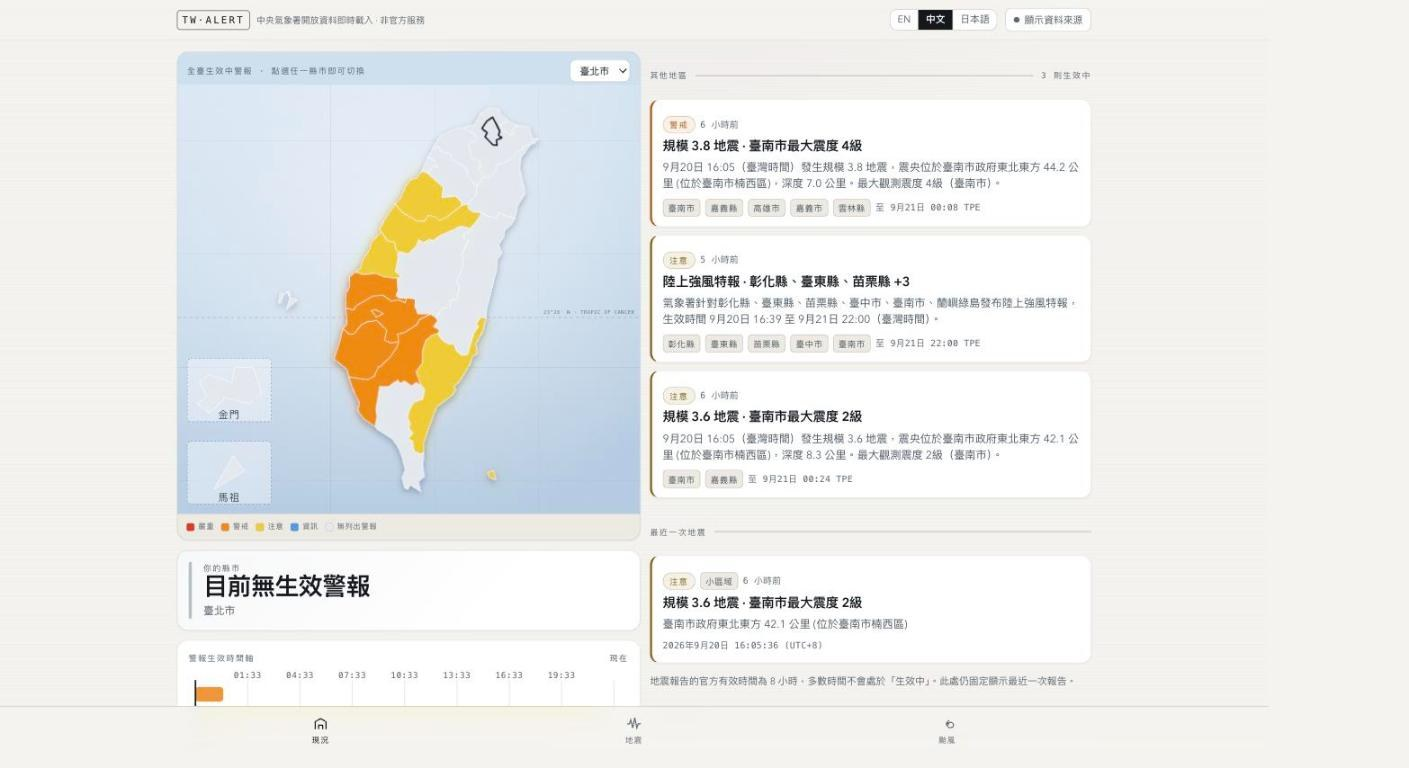
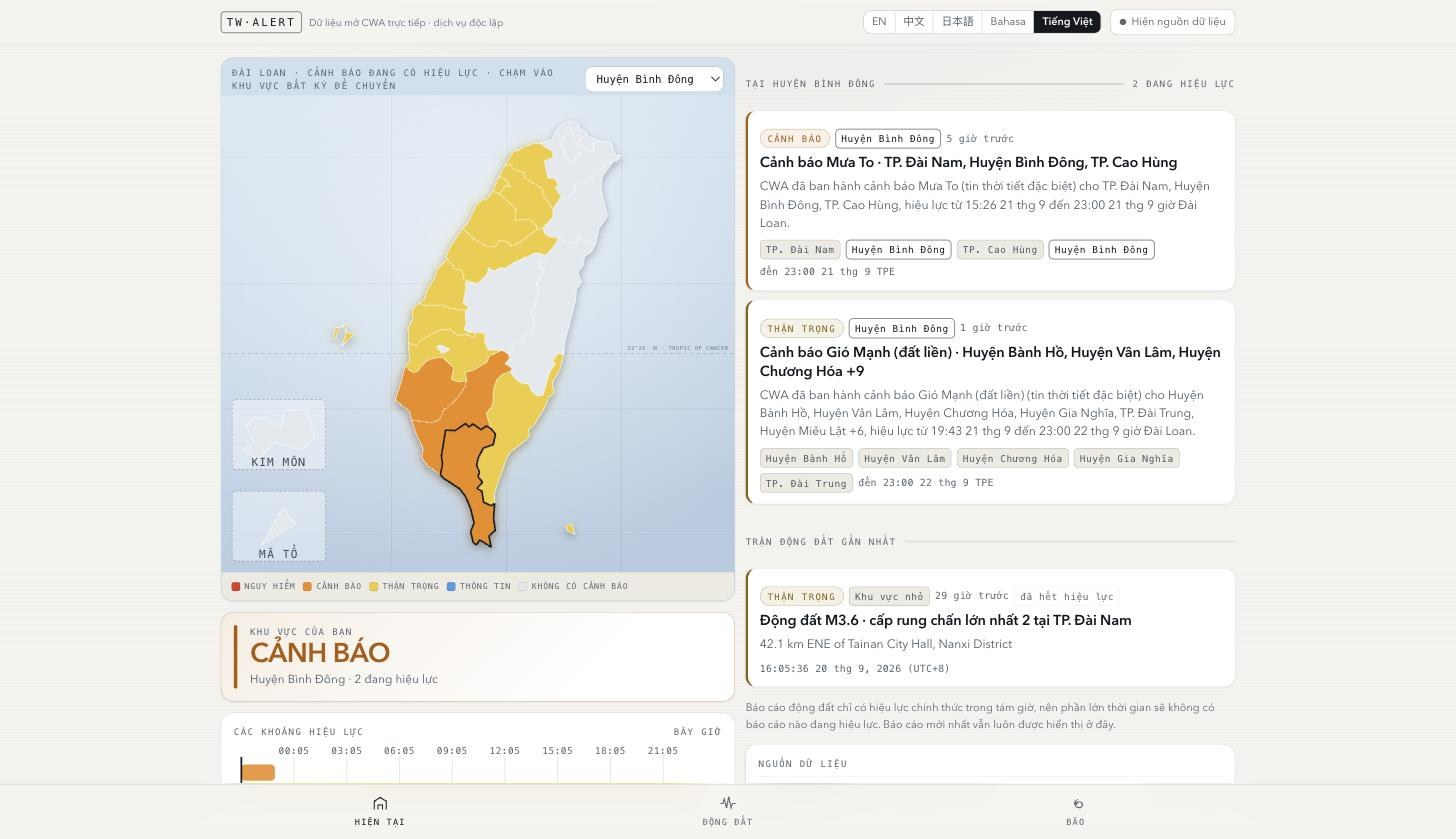
Show the app in Vietnamese, and fix three stale language counts
The languages screenshot still showed 繁體中文, captured before Indonesian and
Vietnamese existed. Chinese is also the least interesting choice, since it is
the language the data already arrives in. It now shows Tiếng Việt with a
heavy rain warning and a strong wind advisory actually in force, which is the
case the app exists for: CWA published that warning in Chinese only, so every
word of the card was written by the app from the structured fields.

Three lines had gone stale and the Vietnamese commit missed them. One said
every alert gets "an English and Japanese body", which stopped being true two
commits ago. The other two were counts in the code layout table.

diff --git a/README.md b/README.md
@@ -115,11 +115,11 @@ The typhoon map frames the storm and Taiwan together until doing so would shrink
 
 English is the default, since the users are foreigners.
 
-CWA always supplies Chinese and occasionally supplies official English. Anshin uses the official English where it exists and labels it official. Most active warnings ship a `zh-TW` narrative only, so every alert also gets an English and Japanese body written from the structured fields (phenomenon, counties, validity window, computed severity) and labelled as generated. The safety guidance in the app is written by the app and marked as such. A machine rendering of safety-critical wording is never presented as the official text.
+CWA always supplies Chinese and occasionally supplies official English. Anshin uses the official English where it exists and labels it official. Most active warnings ship a `zh-TW` narrative only, so every alert also gets a body written from the structured fields (phenomenon, counties, validity window, computed severity) in each of the other four languages, labelled as generated. The safety guidance in the app is written by the app and marked as such. A machine rendering of safety-critical wording is never presented as the official text.
 
-![The same home screen in Traditional Chinese, with county names, alert bodies and interface labels all switched](screenshots/languages.jpg)
+![The same home screen in Vietnamese, with county names, severity tiers, alert bodies and interface labels all switched](screenshots/languages.jpg)
 
-The same screen in 繁體中文. Switching language reprints everything, including the generated alert bodies and the source annotations.
+The same screen in Tiếng Việt, with a heavy rain warning and a strong wind advisory in force. Switching language reprints everything, including the generated alert bodies and the source annotations. The alert text here was written by the app from the structured fields, because CWA published this warning in Chinese only.
 
 Japanese place names are folded to shinjitai, so `花蓮縣` reads as `花蓮県` and `臺東縣政府` becomes `台東県庁`.
 
@@ -161,8 +161,8 @@ One file, one script, nine numbered sections:
 
 | Section | What it holds |
 | --- | --- |
-| 1 Constants | dataset ids, the 22 counties with their Chinese, English and Japanese names, the phenomenon table, the guidance text, the inline GeoJSON |
-| 2 i18n | every string in three languages, including the provenance rules themselves |
+| 1 Constants | dataset ids, the 22 counties named in all five languages, the phenomenon table, the guidance text, the inline GeoJSON |
+| 2 i18n | every string in five languages, including the provenance rules themselves |
 | 3 Utils | timestamp parsing, number coercion, great-circle distance, the provenance renderer |
 | 4 Translation | Chinese area name to county code, epicenter parsing, shinjitai folding |
 | 5 Severity | the four-tier rules, each returning its rule and the inputs it used |
